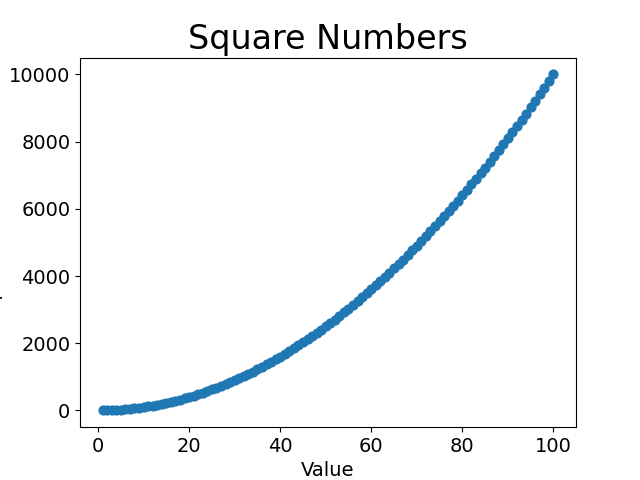
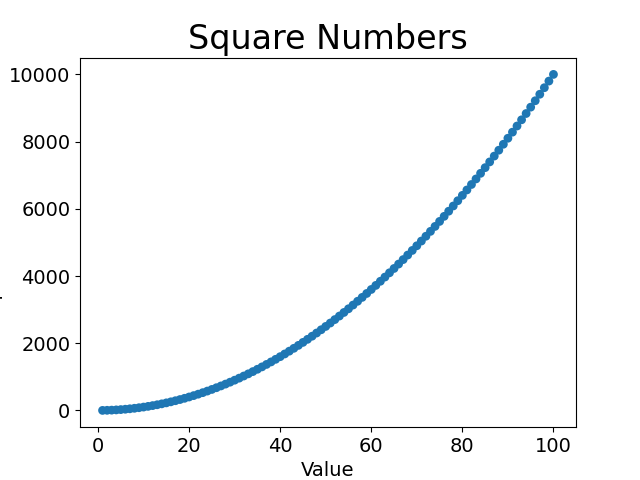
removed outlines from data points on scatter plot

diff --git a/scatter_squares.py b/scatter_squares.py
@@ -3,7 +3,7 @@ import matplotlib.pyplot as plt
 xValues = list(range(1, 101))
 yValues = [x**2 for x in xValues]
 
-plt.scatter(xValues, yValues, s=40)
+plt.scatter(xValues, yValues, edgecolors="none", s=40)
 
 #Set the chart title and label axes
 plt.title("Square Numbers", fontsize=24)
